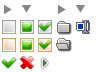
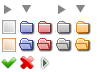
Finalise styling of tree, publish section wiring

diff --git a/src/main/webapp/studio/static/themes/default/css/cms.css b/src/main/webapp/studio/static/themes/default/css/cms.css
@@ -150,20 +150,6 @@
     display: none;
 }
 
-.cmsTreeContainer .jstree-clicked, .cmsTreeContainer .jstree-clicked.jstree-hovered {
-    border: 0;
-    border-bottom:2px solid #006dcc;
-    background: transparent;
-    color: #333;
-}
-
-.cmsTreeContainer .jstree-hovered {
-    background: transparent;
-    color: black;
-    font-weight: bold;
-    border: 0;
-}
-
 /*
   Make a unified border-bottom across the CMS
  */
@@ -212,11 +198,65 @@
     font-size: 1.4em;
 }
 
+/*
+  JSTree styles
+*/
+#cms_container .jstree-clicked, #cms_container .jstree-clicked.jstree-hovered {
+    border: 0;
+    border-bottom:2px solid #006dcc;
+    background: transparent;
+    color: #333;
+}
+
+#cms_container .jstree-hovered {
+    background: transparent;
+    color: black;
+    font-weight: bold;
+    padding: 0 2px;
+    border: 0;
+}
+
+#cms_container .jstree-clicked.jstree-unsaved, #cms_container .jstree-clicked.jstree-hovered.jstree-unsaved {
+    border-bottom:2px solid #ab2729;
+}
+
+#cms_container .jstree-clicked.jstree-draft, #cms_container .jstree-clicked.jstree-hovered.jstree-draft {
+    border-bottom:2px solid #ff9101;
+}
+
+#cms_container .jstree-clicked.jstree-publishlater, #cms_container .jstree-clicked.jstree-hovered.jstree-publishlater {
+    border-bottom:2px solid #4756b9;
+}
+
 #cms_container .jstree-classic ins {
     background-image: url("../img/ddark.png");
 }
 #cms_container  .jstree-classic li {
     background-image: none;
+}
+
+.jstree-classic .jstree-open .jstree-unsaved  .jstree-icon {
+    background-position: -37px -36px;
+}
+
+#cms_container  .jstree-classic .jstree-unsaved .jstree-icon {
+    background-position: -37px -19px;
+}
+
+.jstree-classic .jstree-open .jstree-draft  .jstree-icon {
+    background-position: -74px -36px;
+}
+
+#cms_container  .jstree-classic .jstree-draft .jstree-icon {
+    background-position: -74px -19px;
+}
+
+.jstree-classic .jstree-open .jstree-publishlater  .jstree-icon {
+    background-position: -18px -36px;
+}
+
+#cms_container  .jstree-classic .jstree-publishlater .jstree-icon {
+    background-position: -18px -19px;
 }
 
 /*

diff --git a/src/main/webapp/studio/static/js/views/app/cloud/cms/cloud.cms.section.view.js b/src/main/webapp/studio/static/js/views/app/cloud/cms/cloud.cms.section.view.js
@@ -279,7 +279,8 @@ App.View.CMSSection = App.View.CMS.extend({
     //TODO: Discard draft on server
   },
   onSectionPublish : function(e){
-    var vals = {};
+    var vals = {},
+    status = 'published';
     e.preventDefault();
 
     // Get our form as a JSON object
@@ -293,6 +294,7 @@ App.View.CMSSection = App.View.CMS.extend({
         this.section.publishdate = new Date(); // TODO: Maybe this should be handled on the server..?
       }
     }else if (vals.hasOwnProperty('publishRadio') && vals.publishRadio === "later"){
+      status = 'publishlater';
       this.section.publishDate = vals.publishdate;
     }
 
@@ -300,9 +302,10 @@ App.View.CMSSection = App.View.CMS.extend({
 
     this.sectionModel.set(this.section);
 
-    this.sectionModel.set('status', 'published');
+    this.sectionModel.set('status', status);
     //TODO: Dispatch publish action to SS
-    App.dispatch.trigger(CMS_TOPICS.SECTION_PUBLISH, this.section); // Notify the tree that we're saving the section so it can change colour
+    this.alertMessage('Section published successfully');
+    App.dispatch.trigger(CMS_TOPICS.SECTION_PUBLISH, this.sectionModel.toJSON()); // Notify the tree that we're saving the section so it can change colour
   },
   onSectionDelete : function(e){
     console.log("section delete called");

diff --git a/src/main/webapp/studio/inc/index/apps/cms.html b/src/main/webapp/studio/inc/index/apps/cms.html
@@ -27,10 +27,10 @@
     </div>
     <hr/>
     <span style="margin-left:5px; font-size:14px;">Legend:</span>
-    <ul style="margin-left:5px;">
-     <li><span class="text-error">Unsaved Changes</span></li>
-     <li><span class="text-warning">Draft</span></li>
-    <li><span class="text-info">Publish Later</span></li>
+    <ul class="jstree jstree-classic" style="margin-left:5px;">
+      <li class="jstree-leaf"><a class="jstree-publishlater" href="#"><ins class="jstree-icon">&nbsp;</ins>Publish Later</a></li>
+      <li class="jstree-leaf"><a class="jstree-unsaved" href="#"><ins class="jstree-icon">&nbsp;</ins>Unsaved Changes</a></li>
+      <li class="jstree-leaf"><a class="jstree-draft" href="#"><ins class="jstree-icon">&nbsp;</ins>Draft</a></li>
     </ul>
   </div>
 </script>
@@ -67,8 +67,8 @@
           <input type="radio" name="publishRadio" id="publishRadioLater" value="later">
           Publish Later
         </label>
-        <div class="input-append date">
-          <input type="text" class="span6" id="cmsDatePicker" name="publishdate">
+        <div class="input-append date" id="cmsDatePicker">
+          <input type="text" class="span6"  name="publishdate">
           <span class="add-on"><i class="icon-th"></i></span>
         </div>
 

diff --git a/src/main/webapp/studio/static/themes/default/css/theme.css b/src/main/webapp/studio/static/themes/default/css/theme.css
@@ -24,8 +24,6 @@ textarea { resize:none; }
 .jstree-classic .jstree-leaf > ins { background-position:-36px 0; }
 .jstree-classic .jstree-hovered { background:#e7f4f9; border:1px solid #e7f4f9; padding:0 2px 0 1px; }
 .jstree-classic .jstree-clicked { background:navy; border:1px solid navy; padding:0 2px 0 1px; color:white; }
-.jstree-classic .jstree-unsaved { background:#b94a48; border:1px solid navy; padding:0 2px 0 1px; color:white; }
-.jstree-classic .jstree-draft { background:#c09853; border:1px solid navy; padding:0 2px 0 1px; color:white; }
 .jstree-classic a .jstree-icon { background-position:-56px -19px; }
 .jstree-classic .jstree-open > a .jstree-icon { background-position:-56px -36px; }
 .jstree-classic a.jstree-loading .jstree-icon { background:url("../img/throbber.gif") center center no-repeat !important; }

diff --git a/src/main/webapp/studio/static/js/views/app/cloud/cms/cloud.cms.tree.view.js b/src/main/webapp/studio/static/js/views/app/cloud/cms/cloud.cms.tree.view.js
@@ -62,8 +62,9 @@ App.View.CMSTree = App.View.CMS.extend({
 
     App.dispatch.on(CMS_TOPICS.SECTION_PUBLISH,function (data){
        console.log("cms.sectionpublish ", data);
+       var status = data.status || 'published';
       //TODO need to know if it is a publish later or not.
-      $('.jstree-clicked').removeClass().addClass("jstree-clicked");
+      $('.jstree-clicked').removeClass().addClass("jstree-clicked").addClass("jstree-" + status);
     });
 
     App.dispatch.on(CMS_TOPICS.SECTION_DIRTIED, function (data){
